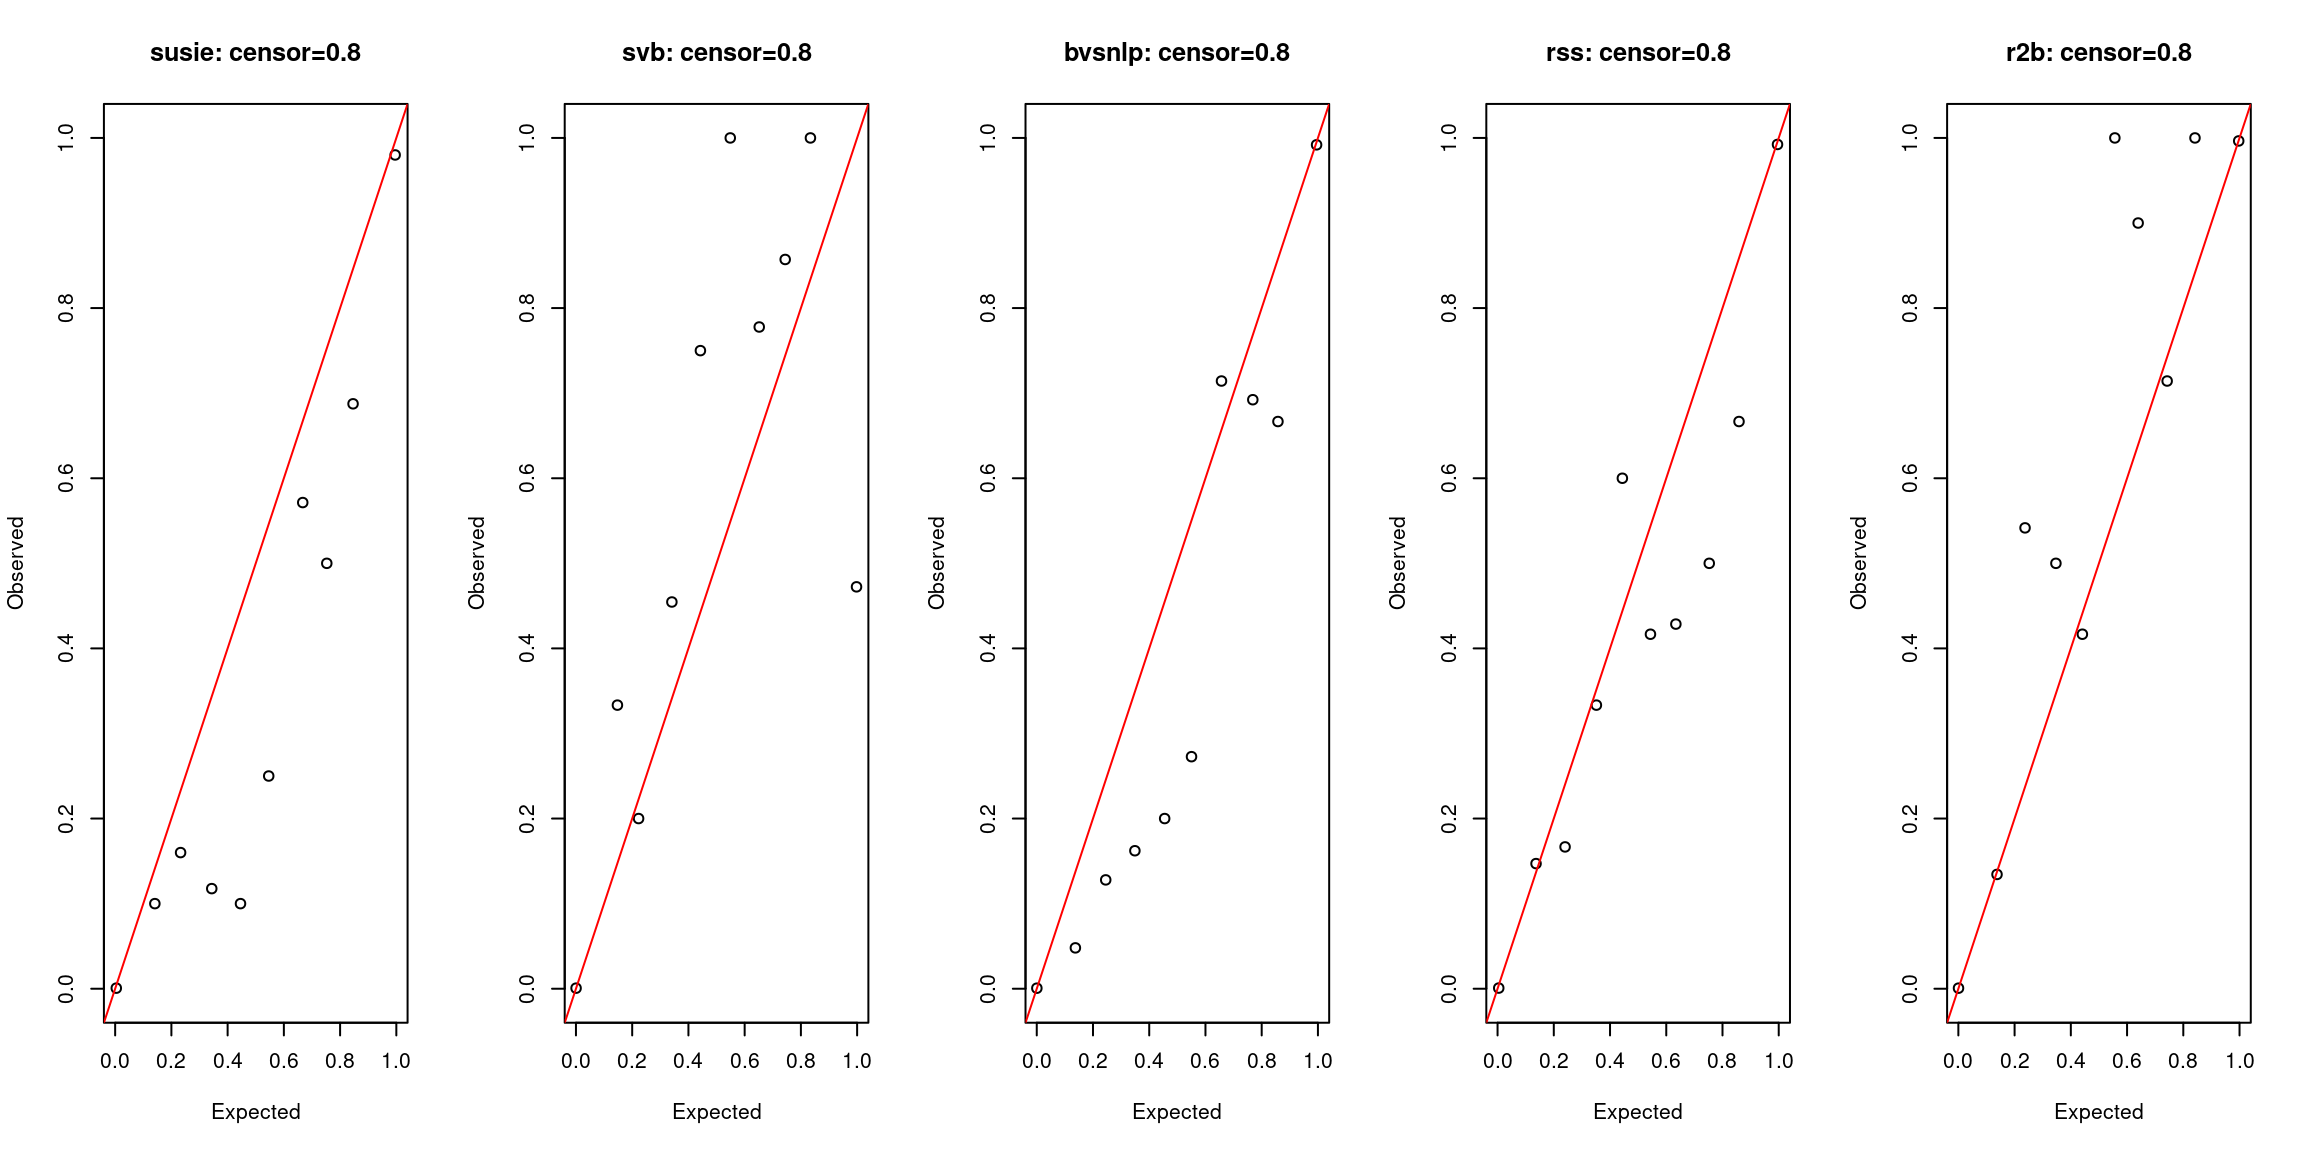
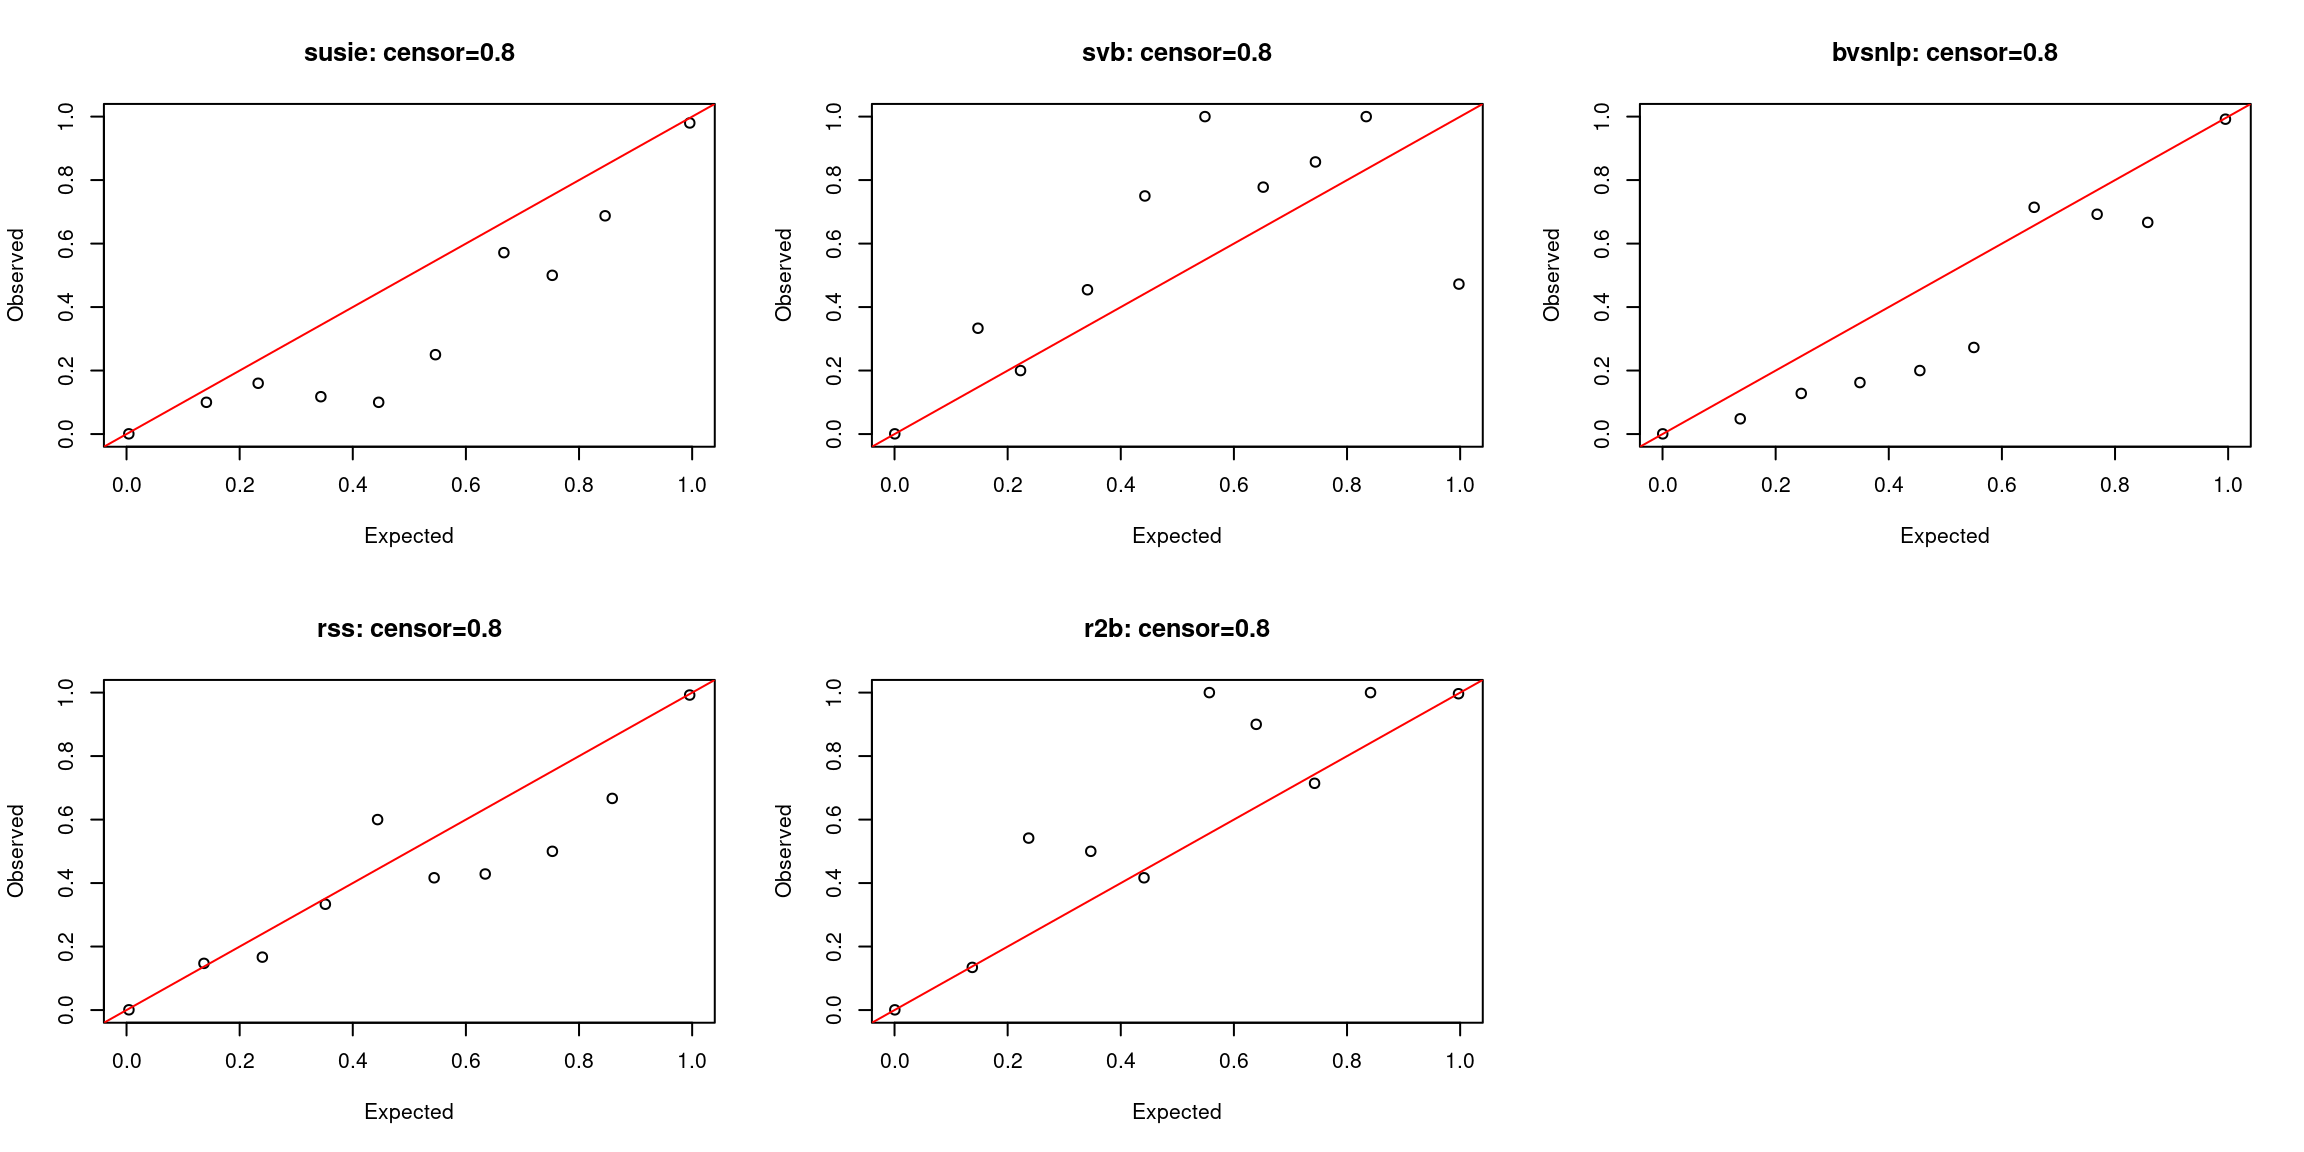
Build site.

diff --git a/docs/compare_pip_500iter.html b/docs/compare_pip_500iter.html
@@ -550,15 +550,15 @@ code/pip.R
 <div class="panel panel-default">
 <div class="panel-heading">
 <p class="panel-title">
-<a data-toggle="collapse" data-parent="#workflowr-checks" href="#strongRepositoryversionstrongahrefhttpsgithubcomyunqiyang0215survivalsusietreea92d12134bf752262ec226f616222a4f09c727edtargetblanka92d121a">
+<a data-toggle="collapse" data-parent="#workflowr-checks" href="#strongRepositoryversionstrongahrefhttpsgithubcomyunqiyang0215survivalsusietree39635bf3000fb393cc25b4830439f3e880e7978btargetblank39635bfa">
 <span class="glyphicon glyphicon-ok text-success"
 aria-hidden="true"></span> <strong>Repository version:</strong>
-<a href="https://github.com/yunqiyang0215/survival-susie/tree/a92d12134bf752262ec226f616222a4f09c727ed" target="_blank">a92d121</a>
+<a href="https://github.com/yunqiyang0215/survival-susie/tree/39635bf3000fb393cc25b4830439f3e880e7978b" target="_blank">39635bf</a>
 </a>
 </p>
 </div>
 <div
[2 lines of base64/hex data omitted]
 class="panel-collapse collapse">
 <div class="panel-body">
 <p>
@@ -568,7 +568,7 @@ reproducibility.
 </p>
 <p>
 The results in this page were generated with repository version
-<a href="https://github.com/yunqiyang0215/survival-susie/tree/a92d12134bf752262ec226f616222a4f09c727ed" target="_blank">a92d121</a>.
+<a href="https://github.com/yunqiyang0215/survival-susie/tree/39635bf3000fb393cc25b4830439f3e880e7978b" target="_blank">39635bf</a>.
 See the <em>Past versions</em> tab to see a history of the changes made
 to the R Markdown and HTML files.
 </p>
@@ -633,6 +633,40 @@ Message
 </tr>
 </thead>
 <tbody>
+<tr>
+<td>
+Rmd
+</td>
+<td>
+<a href="https://github.com/yunqiyang0215/survival-susie/blob/39635bf3000fb393cc25b4830439f3e880e7978b/analysis/compare_pip_500iter.Rmd" target="_blank">39635bf</a>
+</td>
+<td>
+yunqi yang
+</td>
+<td>
+2024-03-20
+</td>
+<td>
+wflow_publish("analysis/compare_pip_500iter.Rmd")
+</td>
+</tr>
+<tr>
+<td>
+html
+</td>
+<td>
+<a href="https://rawcdn.githack.com/yunqiyang0215/survival-susie/87ed6c590672830153c5e8220692fab1239e3455/docs/compare_pip_500iter.html" target="_blank">87ed6c5</a>
+</td>
+<td>
+yunqi yang
+</td>
+<td>
+2024-03-20
+</td>
+<td>
+Build site.
+</td>
+</tr>
 <tr>
 <td>
 html
@@ -893,7 +927,7 @@ yunqi yang
 </table>
 </div>
 </div>
-<pre class="r"><code>par(mfrow = c(1,5))
+<pre class="r"><code>par(mfrow = c(2,3))
 indx = which(bvsnlp$simulate.cor_type == &quot;real&quot;)
 is_effect = unlist(lapply(indx, function(x) bvsnlp$simulate.is_effect[[x]]))
 pip.susie = unlist(lapply(indx, function(x) susie$susie.pip[[x]]))
@@ -1073,7 +1107,7 @@ yunqi yang
 </table>
 </div>
 </div>
-<pre class="r"><code>par(mfrow = c(1,5))
+<pre class="r"><code>par(mfrow = c(2,3))
 indx = which(bvsnlp$simulate.cor_type == &quot;independent&quot;)
 is_effect = unlist(lapply(indx, function(x) bvsnlp$simulate.is_effect[[x]]))
 pip.susie = unlist(lapply(indx, function(x) susie$susie.pip[[x]]))
